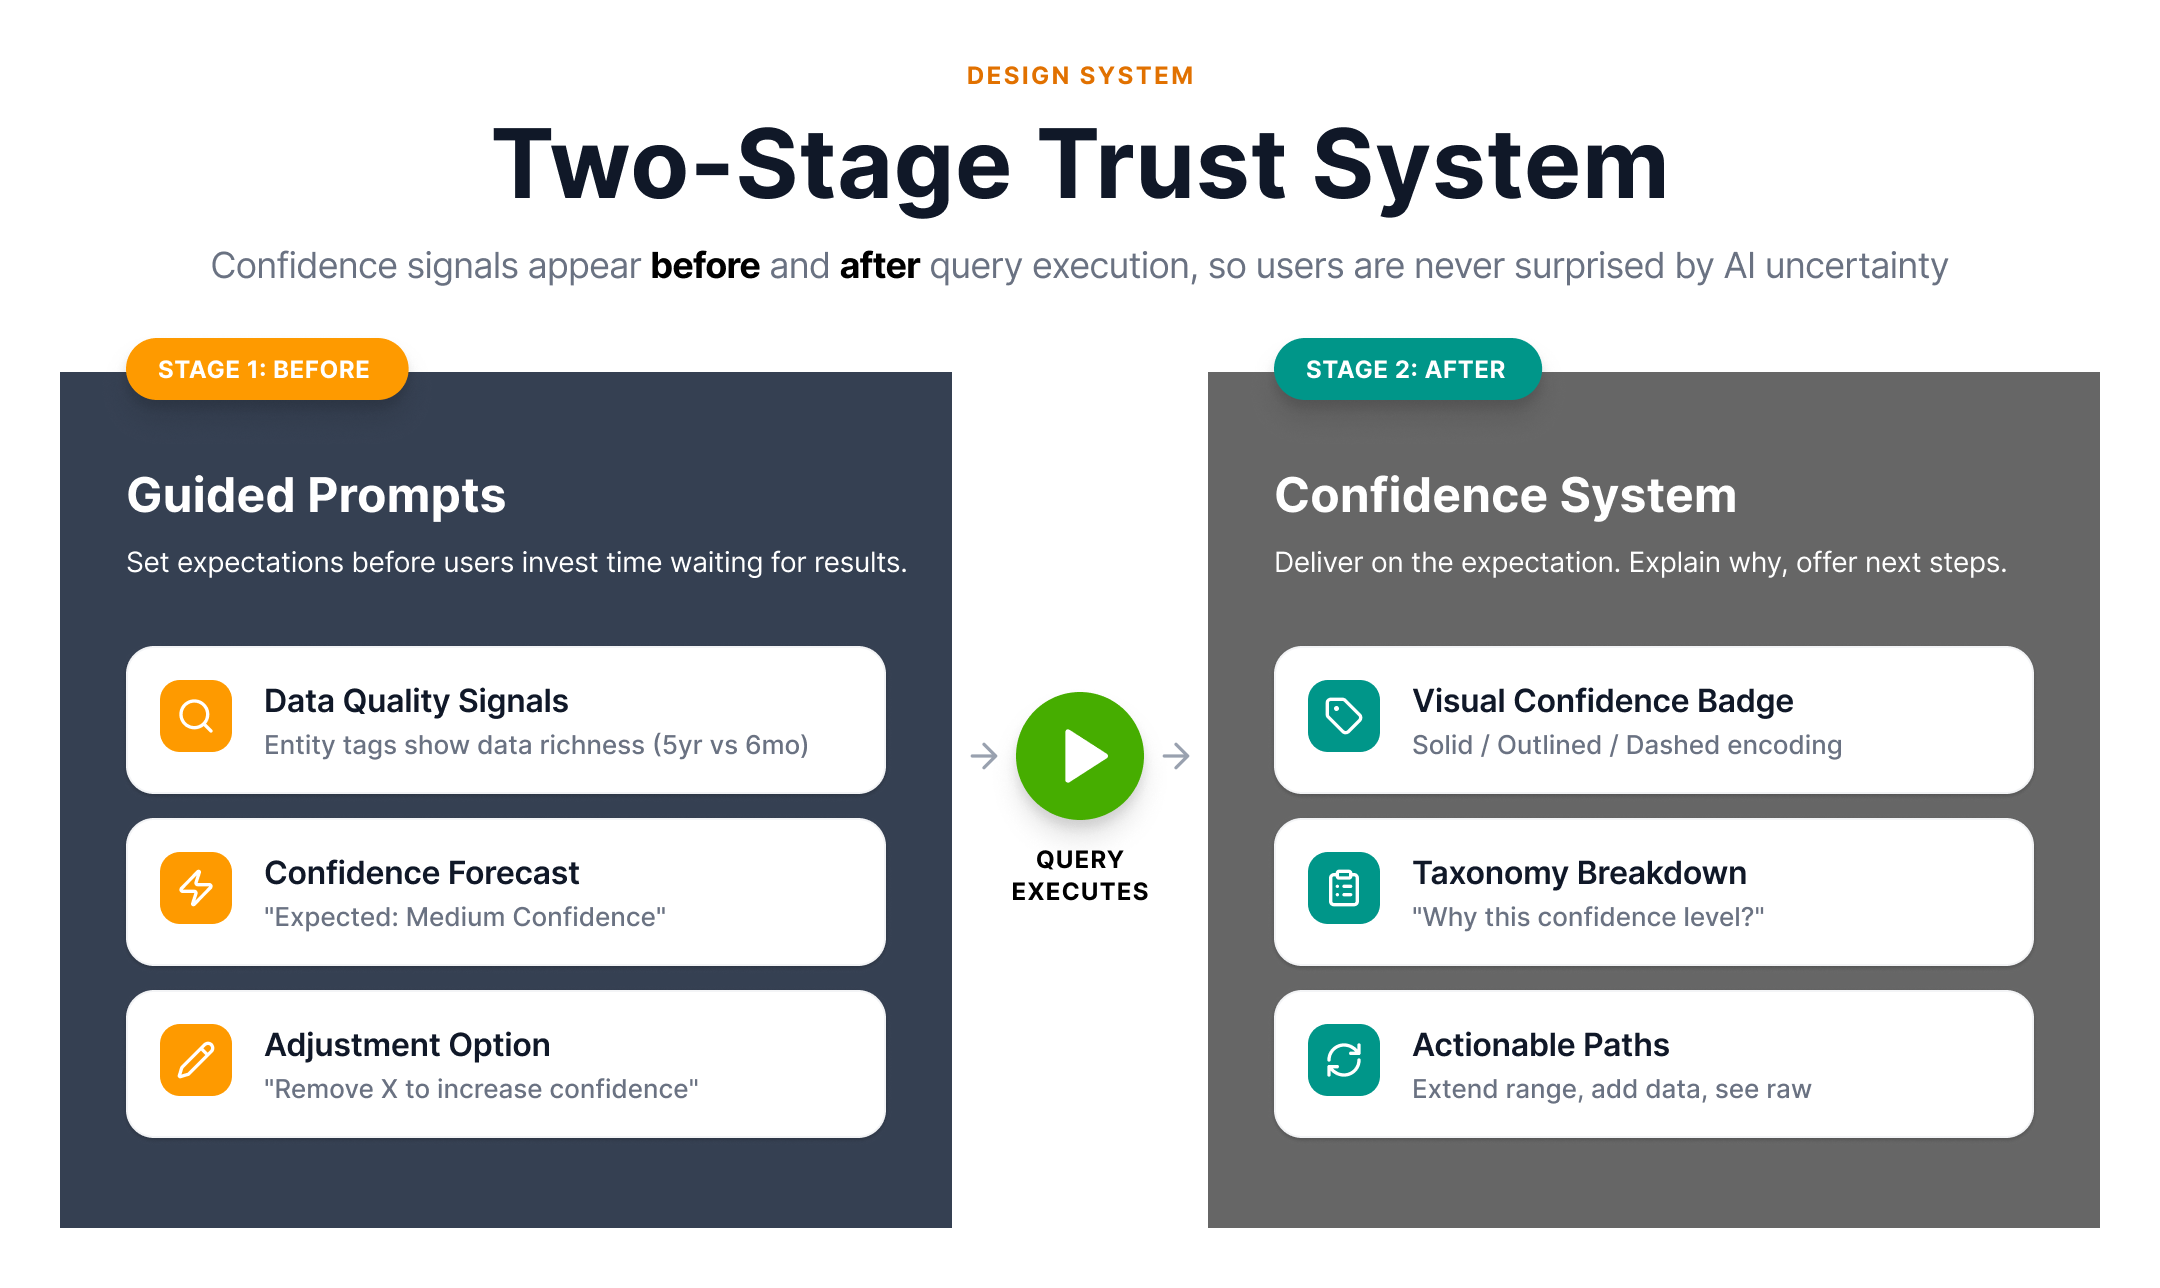
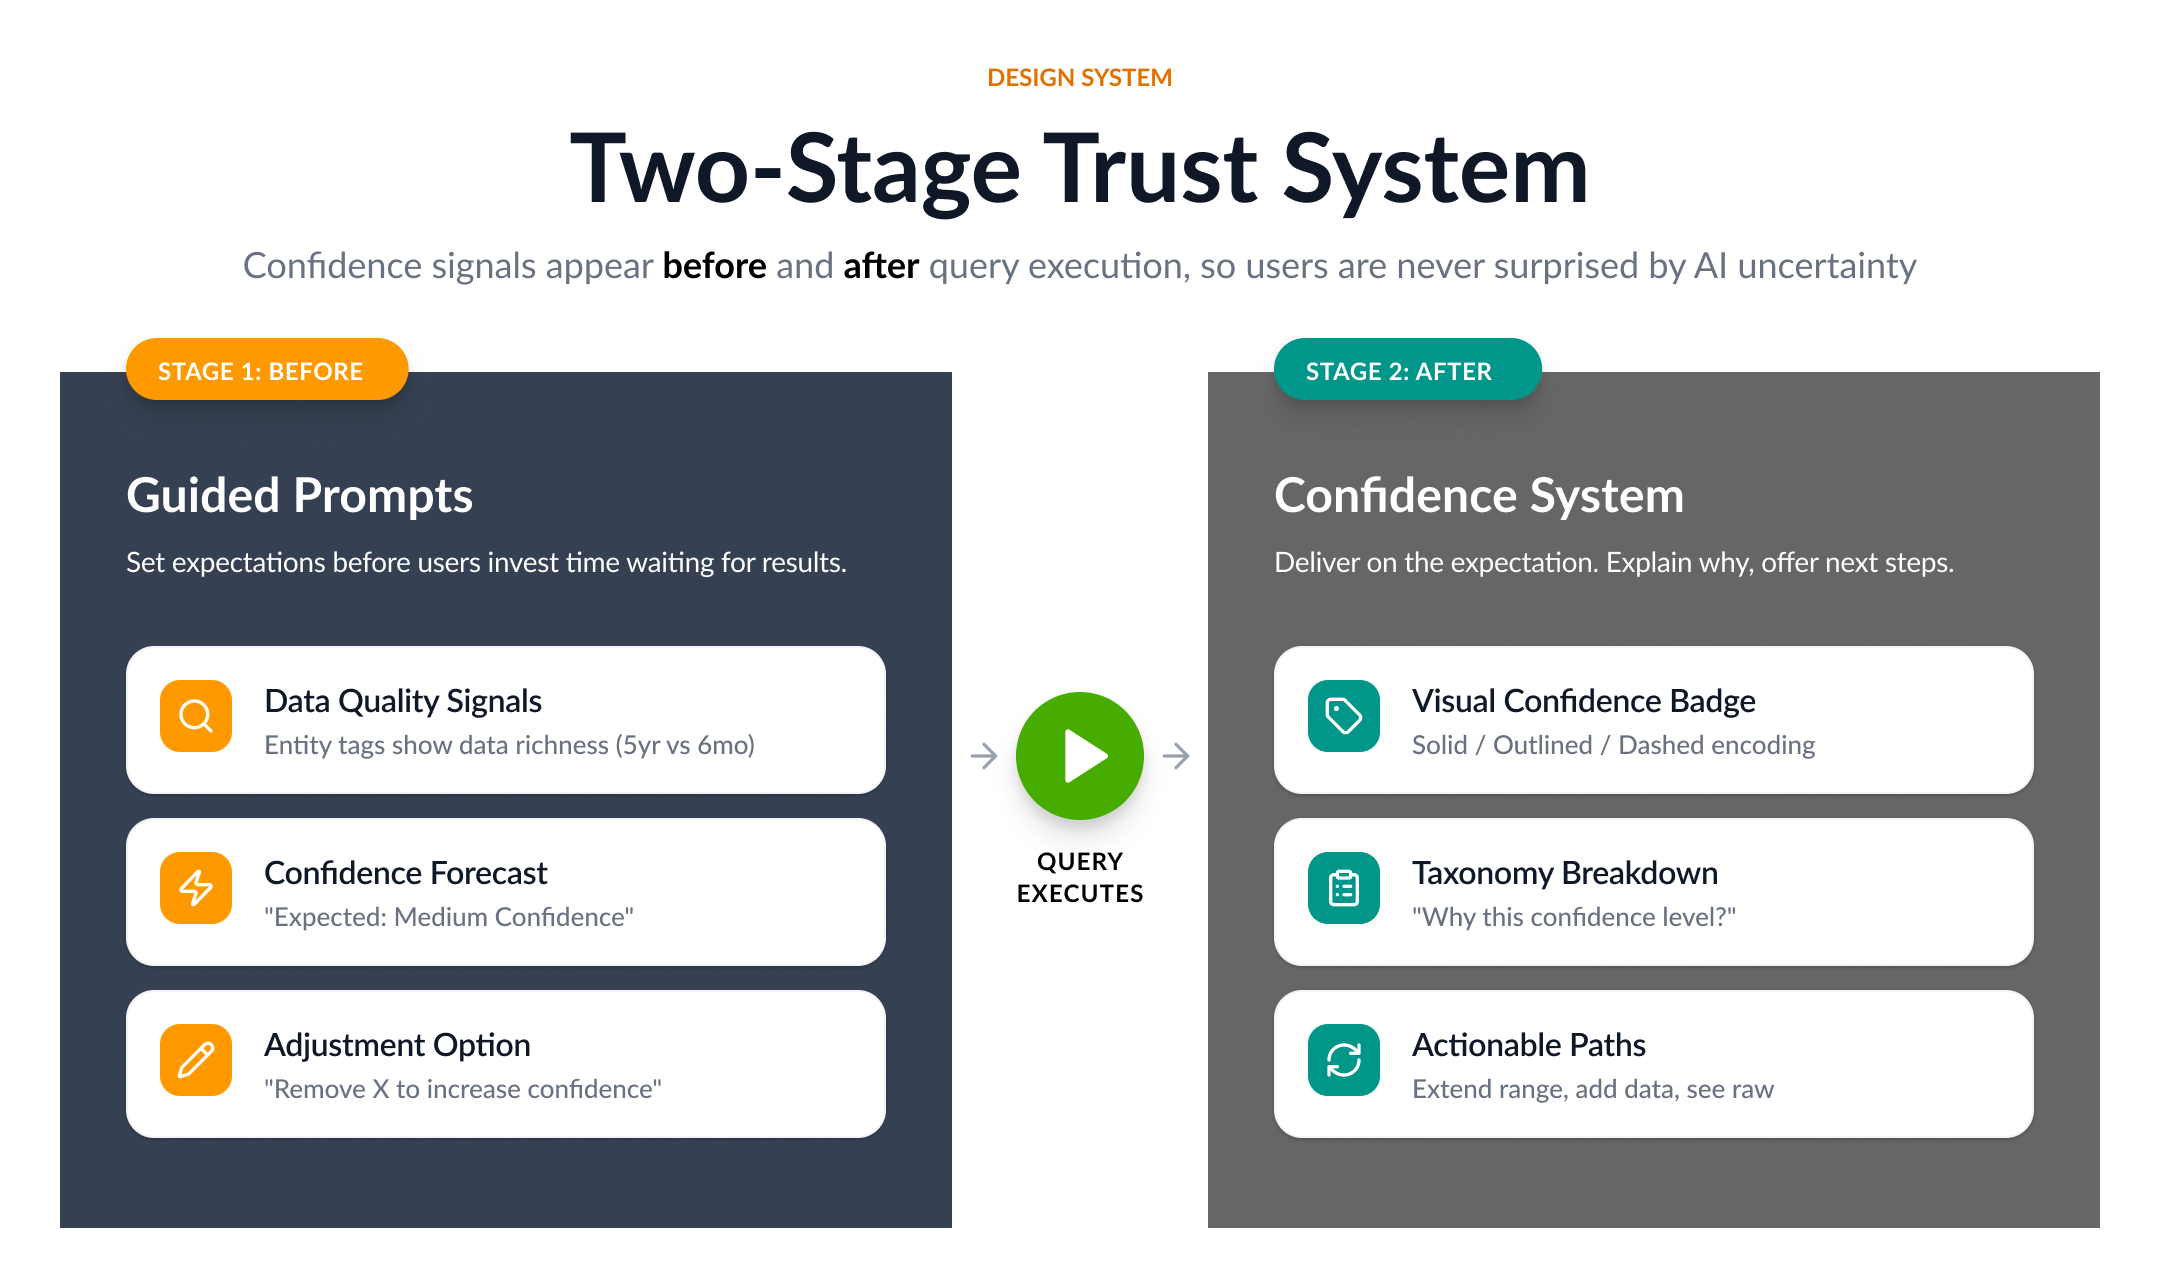
Switch to SF Pro system font and update EA Iris project image
- Replace Host Grotesk Google Font with SF Pro system font
- Update font stack in globals.css to prioritize SF Pro
- Update EA Iris confidence system image

diff --git a/src/app/layout.tsx b/src/app/layout.tsx
@@ -1,12 +1,5 @@
 import type { Metadata } from "next";
-import { Host_Grotesk } from "next/font/google";
 import "./globals.css";
-
-const hostGrotesk = Host_Grotesk({
-  weight: ["300", "400", "500", "600", "700"],
-  subsets: ["latin"],
-  variable: "--font-host-grotesk",
-});
 
 export const metadata: Metadata = {
   title: "Ed Monterrubio - Product Design Portfolio",
@@ -21,7 +14,7 @@ export default function RootLayout({
   return (
     <html lang="en">
       <body
-        className={`${hostGrotesk.variable} font-sans antialiased bg-gray-100`}
+        className="font-sans antialiased bg-gray-100"
       >
         {children}
       </body>

diff --git a/src/app/globals.css b/src/app/globals.css
@@ -23,5 +23,5 @@ body {
 body {
   color: var(--foreground);
   background: var(--background);
-  font-family: system-ui, -apple-system, BlinkMacSystemFont, "Segoe UI", Roboto, "Helvetica Neue", Arial, sans-serif;
+  font-family: -apple-system, BlinkMacSystemFont, "SF Pro Display", "SF Pro Text", system-ui, sans-serif;
 }
